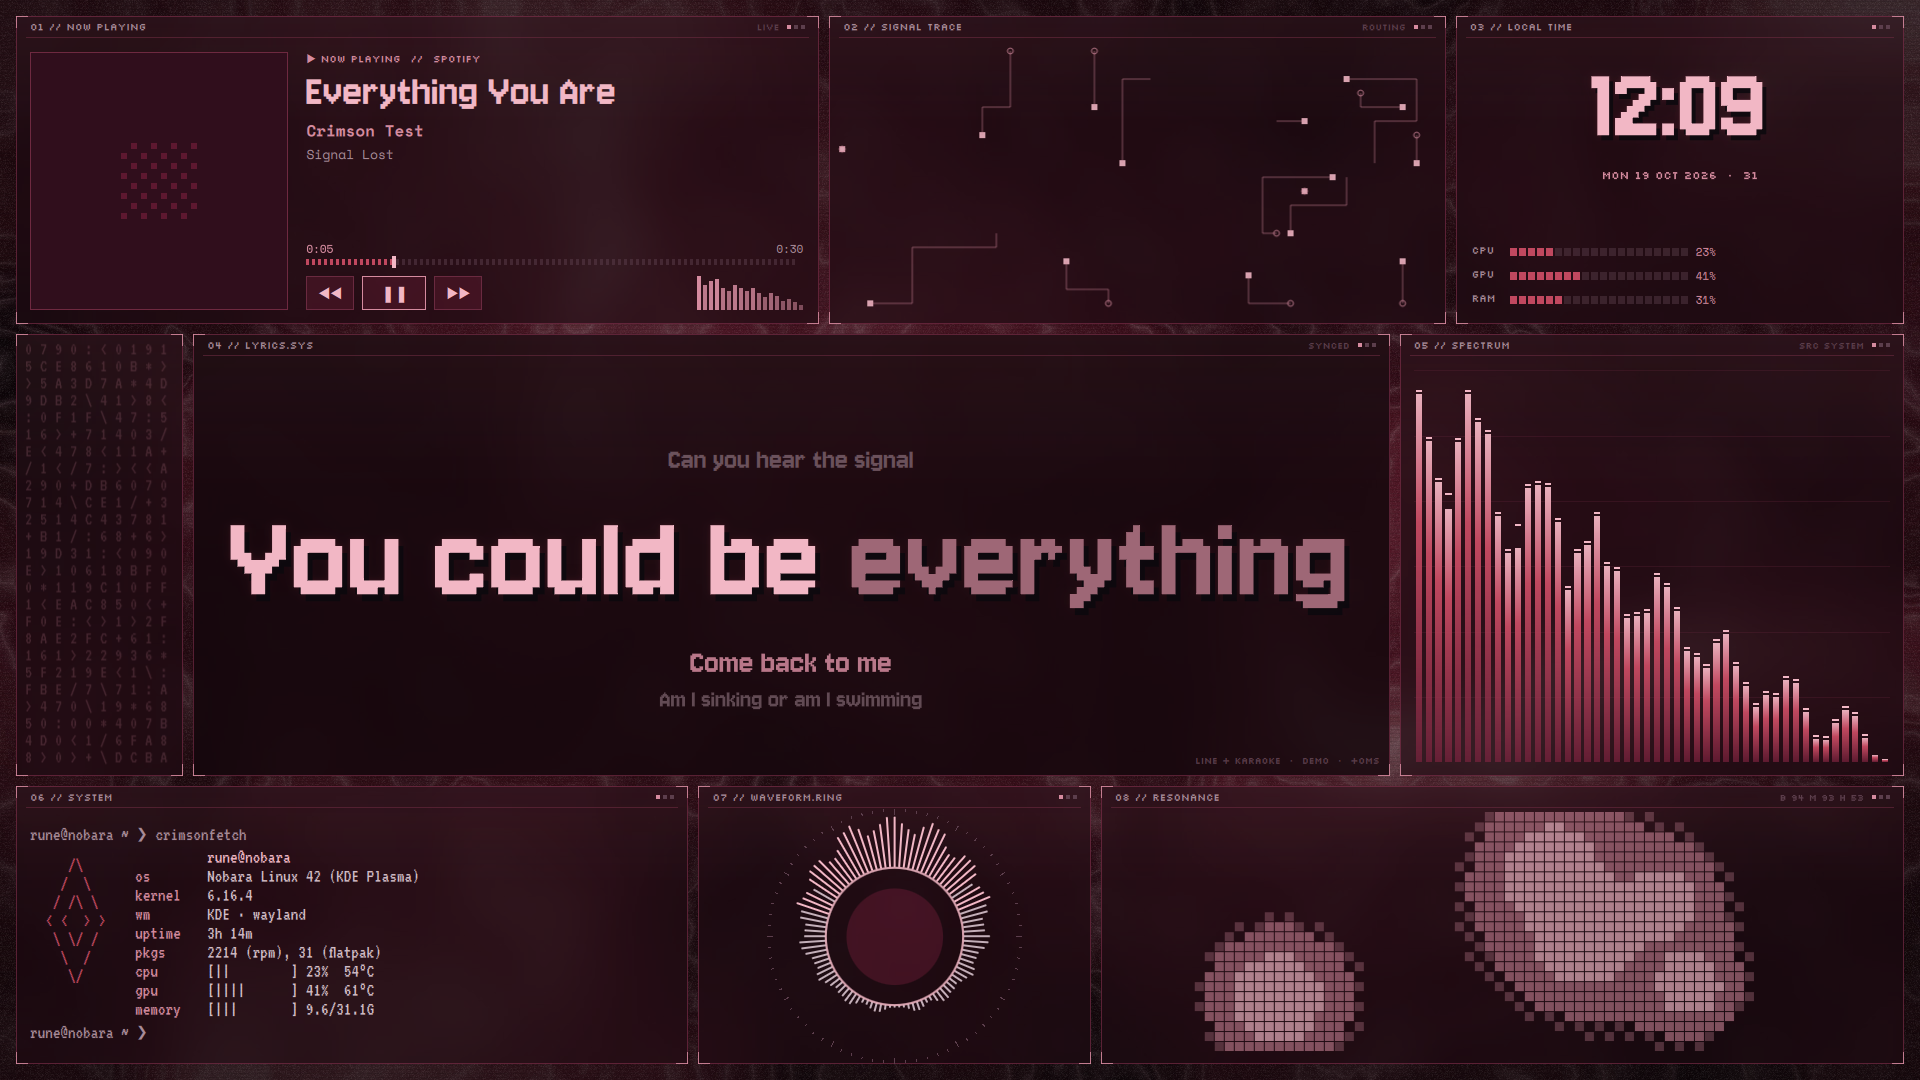
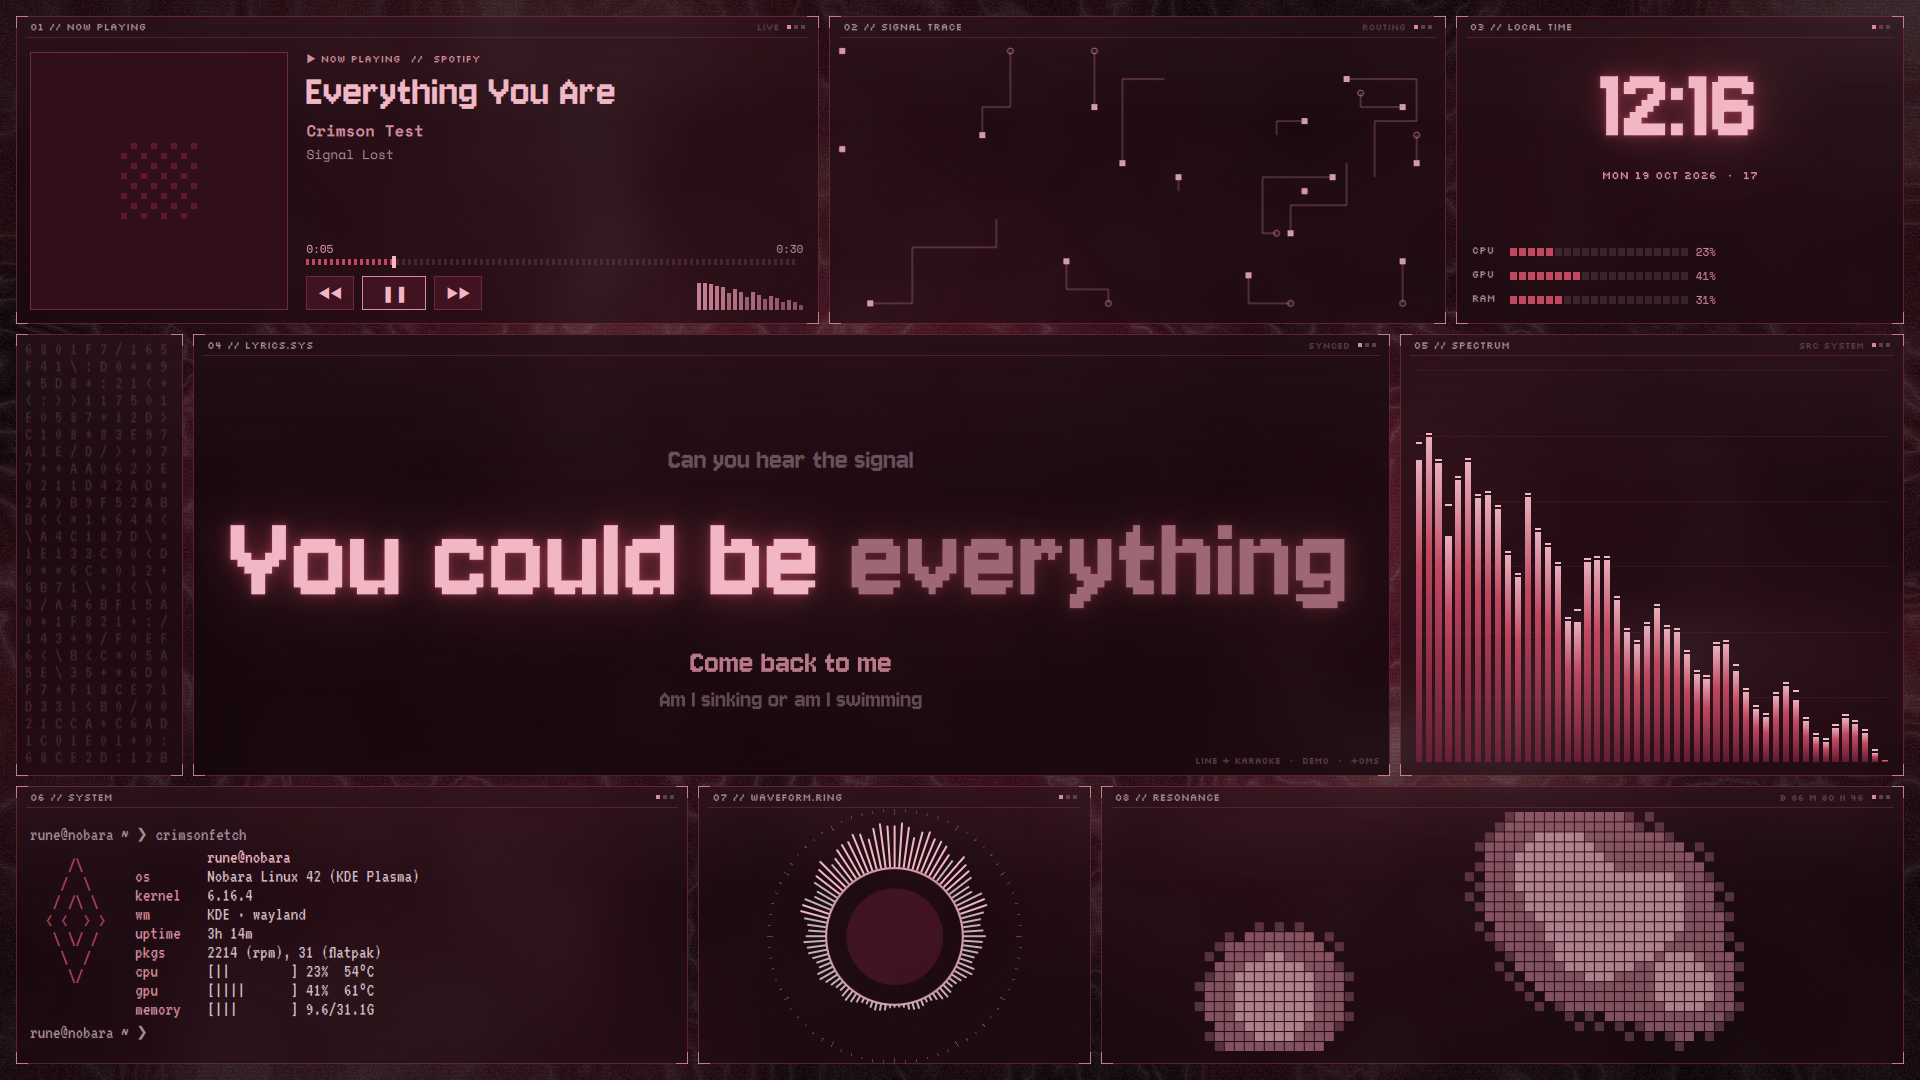
Bring back the neon glow behind the crisp dashboard lyrics
The sharpening update had cut the glow to about a third of its old strength.
The glow is now two crimson-tinted blurred copies (a wide halo and a tight
rim) drawn behind the vector glyphs, so the letters stay sharp. The strength
is configurable as [ui] lyrics_glow (0 = off ... 1 = strong, default 0.8)
and the low performance profile still turns it off. The dark drop shadow
fades out as the glow strengthens, matching the original look. Measured
frame rate and CPU match the original dashboard.

Claude-Session: https://claude.ai/code/session_01C44NCUD3pbG7qU7jRTTxqE

diff --git a/dashboard/qml/Crimson/PixelText.qml b/dashboard/qml/Crimson/PixelText.qml
@@ -7,7 +7,7 @@ import QtQuick.Effects
 //   screen's physical resolution — sharp at any KDE scale factor (100/125/150/200 %) and while
 //   animating, because nothing is rasterised and scaled afterwards. CurveRendering (Qt ≥ 6.7)
 //   keeps the square pixel corners exact at huge sizes; older Qt uses distance-field text.
-//   Readability comes from a hard 1-step drop shadow, not blur.
+//   A neon glow (strength: [ui] lyrics_glow) is drawn BEHIND the glyphs, so it never softens them.
 // style "retro": the old chunky look — the text is drawn into a low-resolution texture and
 //   enlarged with nearest-neighbour. Each block is a whole number of device pixels and glyph
 //   antialiasing is off, so blocks stay hard and even at any scale factor (see 'holder').
@@ -45,18 +45,38 @@ Item {
     // retro: whole device pixels per block (≥ 2)
     readonly property int blockDevice: Math.max(2, Math.round(pixelSize * dpr))
 
-    // ---- faint glow (optional, balanced/high profiles): soft colour BEHIND crisp text ----
+    // ---- neon glow BEHIND the text (the text itself stays crisp on top) ----
+    // Two layers: a wide soft halo and a tight bright rim. Strength comes from [ui] lyrics_glow
+    // (0 = off … 1 = strong); the low performance profile turns it off.
+    property real glowStrength: Theme.lyricGlow
+    readonly property bool glowOn: root.glow && root.glowStrength > 0 && Theme.visibleUi && label.text !== ""
     MultiEffect {
-        visible: root.glow && Theme.visibleUi && !root.retro && label.text !== ""
-        source: label
-        x: label.x; y: label.y; width: label.width; height: label.height
+        visible: root.glowOn
+        source: root.retro ? holder : label
+        x: root.retro ? 0 : label.x; y: root.retro ? 0 : label.y
+        width: root.retro ? root.width : label.width; height: root.retro ? root.height : label.height
         autoPaddingEnabled: true
         blurEnabled: true
-        blur: 0.6
-        blurMax: 24
+        blur: 1.0
+        blurMax: 48
+        blurMultiplier: 0.7
         colorization: 1.0
         colorizationColor: root.glowColor
-        opacity: 0.32
+        brightness: 0.12
+        opacity: Math.min(1, 1.15 * root.glowStrength)
+    }
+    MultiEffect {
+        visible: root.glowOn
+        source: root.retro ? holder : label
+        x: root.retro ? 0 : label.x; y: root.retro ? 0 : label.y
+        width: root.retro ? root.width : label.width; height: root.retro ? root.height : label.height
+        autoPaddingEnabled: true
+        blurEnabled: true
+        blur: 0.8
+        blurMax: 16
+        colorization: 1.0
+        colorizationColor: Qt.lighter(root.glowColor, 1.3)
+        opacity: Math.min(1, 1.0 * root.glowStrength)
     }
 
     // ---- hard drop shadow: one crisp offset copy, improves contrast over any wallpaper ----
@@ -70,7 +90,8 @@ Item {
         textFormat: label.textFormat
         font: label.font
         color: root.shadowColor
-        opacity: 0.85
+        // the glow does the separating; the dark shadow fades out as the glow gets stronger
+        opacity: root.glowOn ? Math.max(0, 0.85 - 1.1 * root.glowStrength) : 0.85
         horizontalAlignment: label.horizontalAlignment
         verticalAlignment: label.verticalAlignment
         wrapMode: label.wrapMode

diff --git a/dashboard/qml/Crimson/HostBindings.qml b/dashboard/qml/Crimson/HostBindings.qml
@@ -13,6 +13,8 @@ QtObject {
         Binding { target: Theme; property: "borderAnim"; value: !!perf.border_anim },
         Binding { target: Theme; property: "visibleUi"; value: ui.visible !== false },
         Binding { target: Theme; property: "playing"; value: !!(backend && backend.player.playing) },
+        Binding { target: Theme; property: "lyricGlow"
+                  value: (ui.ui_cfg && typeof ui.ui_cfg.lyrics_glow === "number") ? Math.max(0, Math.min(1, ui.ui_cfg.lyrics_glow)) : 0.8 },
         Binding { target: Theme; property: "lyricStyle"; value: (ui.ui_cfg && ui.ui_cfg.lyrics_style === "retro") ? "retro" : "crisp" }
     ]
 }

diff --git a/dashboard/qml/Crimson/Theme.qml b/dashboard/qml/Crimson/Theme.qml
@@ -36,6 +36,7 @@ QtObject {
     property bool visibleUi: true
     property bool playing: false
     property string lyricStyle: "crisp"  // crisp | retro (see PixelText.qml)
+    property real lyricGlow: 0.8         // 0 = off … 1 = strong neon glow behind big text
 
     // decorative animations only run while visible + music playing
     readonly property bool animateDecor: visibleUi && decor && playing

diff --git a/crimson/dashboard.py b/crimson/dashboard.py
@@ -238,7 +238,7 @@ def make_backend_classes():
 """
 
         def __init__(self, start_ms: int = 5900, art: str = "", lyrics_status: str = "synced", display: str = "auto",
-                     style: str = "crisp", perf_level: str = "balanced", playing: bool = True):
+                     style: str = "crisp", perf_level: str = "balanced", playing: bool = True, glow: float = 0.8):
             super().__init__()
             from . import lrc
             self.t0 = time.time() * 1000 - start_ms
@@ -249,7 +249,7 @@ def make_backend_classes():
             perf = config.PERFORMANCE[perf_level]
             self._ui = {"visible": True, "perf": perf, "effective_performance": perf_level, "audio_available": True,
                         "audio_source": "system", "display_mode": display, "demo": True,
-                        "ui_cfg": dict(config.DEFAULTS["ui"], lyrics_style=style)}
+                        "ui_cfg": dict(config.DEFAULTS["ui"], lyrics_style=style, lyrics_glow=glow)}
             self._player = {"available": True, "player": "spotify", "status": "Playing" if playing else "Paused", "playing": playing,
                             "track": {"id": "demo", "title": "Everything You Are", "artist": "Crimson Test",
                                       "album": "Signal Lost", "length_ms": 30000, "art_url": ""},
@@ -305,6 +305,7 @@ def main() -> None:
     ap.add_argument("--demo-style", default="crisp", choices=["crisp", "retro"], help="demo lyric typography")
     ap.add_argument("--demo-perf", default="balanced", choices=["low", "balanced", "high"], help="demo performance profile")
     ap.add_argument("--demo-paused", action="store_true", help="demo with playback paused")
+    ap.add_argument("--demo-glow", type=float, default=0.8, help="demo lyric glow strength 0..1")
     ap.add_argument("--size", help="window size WxH (testing)")
     ap.add_argument("--screenshot", help="render, save PNG to this path and exit")
     ap.add_argument("--screenshot-delay", type=int, default=2500)
@@ -353,7 +354,7 @@ def main() -> None:
 
     _, SocketBackend, DemoBackend = make_backend_classes()
     backend = (DemoBackend(args.demo_pos, args.demo_art, args.demo_state, args.demo_display, args.demo_style,
-                           args.demo_perf, not args.demo_paused) if args.demo else SocketBackend())
+                           args.demo_perf, not args.demo_paused, args.demo_glow) if args.demo else SocketBackend())
 
     screen = pick_screen(app, args.monitor or cfg["dashboard"].get("monitor", "auto"))
     engine = QQmlApplicationEngine()

diff --git a/crimson/config.py b/crimson/config.py
@@ -67,6 +67,8 @@ DEFAULTS: dict[str, Any] = {
         # "retro": extra chunky nearest-neighbour blocks. (Replaces the old pixelate_lyrics key,
         # which is still accepted in config files but no longer changes the renderer.)
         "lyrics_style": "crisp",
+        # neon glow behind the big lyric/clock text: 0 = off ... 1 = strong (off in the low profile)
+        "lyrics_glow": 0.8,
         "pixelate_lyrics": False,
         "clock_24h": True,
         "username": "",

diff --git a/docs/DESIGN.md b/docs/DESIGN.md
@@ -34,8 +34,10 @@ Changes from the reference, for readability and daily use:
 The lyric, clock and status words use **Jersey 10**, which already has a pixel look. It's drawn as
 vector glyphs at the monitor's *physical* resolution, using Qt's curve text renderer on Qt 6.7+ and
 distance-field text on older versions. So it stays sharp at 100/125/150/200 % scaling and while it
-animates. Contrast comes from a hard one-step drop shadow plus a faint glow behind the text (the glow
-is off in the low profile).
+animates. The neon glow is two blurred, crimson-tinted copies (a wide halo and a tight rim) drawn
+*behind* the crisp glyphs, so it never softens the letters. Its strength is `[ui] lyrics_glow`
+(0 = off … 1 = strong, default 0.8) and it's off in the low profile. A hard drop shadow takes over
+when the glow is weak or off.
 
 Earlier versions drew the text into a texture at 1/2.5 of the size and enlarged it with
 nearest-neighbour, with a 40 px blur glow underneath. That gave uneven, fuzzy-edged blocks and a halo

diff --git a/docs/TROUBLESHOOTING.md b/docs/TROUBLESHOOTING.md
@@ -51,6 +51,8 @@ your monitor's real resolution. If they still look soft:
   the right monitor's native mode;
 * check `[ui] lyrics_style` in `~/.config/crimson-desktop/config.toml`: `"crisp"` is the default,
   `"retro"` is the deliberately chunky look. An old `pixelate_lyrics` line there is ignored now;
+* want more or less neon? set `lyrics_glow` under `[ui]` (0 = off … 1 = strong, default 0.8),
+  then `crimsonctl restart`;
 * measure the dashboard's cost on your GPU: `bin/crimson-dashboard --demo --stats 10` (opens a
   temporary preview window and prints fps and CPU time).
 
